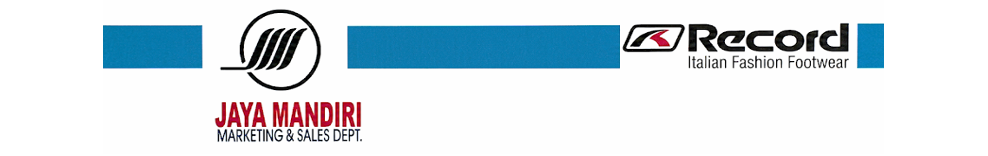
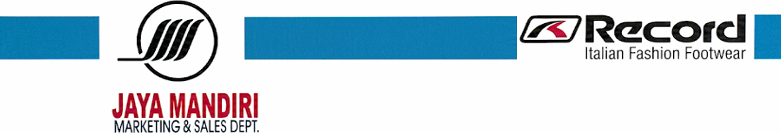
fix(contracts): presisikan kop surat sejajar teks dokumen dan panduan hilangkan header footer

Changed region(s): [[0.0, 0.0, 1.0, 1.0]]

diff --git a/resources/views/super-admin/contracts/print.blade.php b/resources/views/super-admin/contracts/print.blade.php
@@ -118,10 +118,11 @@
             box-sizing: border-box;
         }
 
-        /* Kop Surat Lebar Penuh Sesuai Kertas */
+        /* Kop Surat Lebar Penuh Sesuai Teks Dokumen */
         .kop-container {
             width: 100%;
-            margin-bottom: 16px;
+            margin-bottom: 14px;
+            padding: 0;
             text-align: center;
         }
 
@@ -129,6 +130,8 @@
             width: 100%;
             height: auto;
             display: block;
+            margin: 0;
+            padding: 0;
         }
 
         /* Judul Dokumen */
@@ -292,9 +295,9 @@
         <strong>Kontrak Kerja:</strong> {{ $contract->employee_name }} &mdash; <span>No. {{ $contract->contract_number }}</span>
     </div>
     <div style="display: flex; gap: 10px; align-items: center;">
-        <span style="font-size: 12px; color: #94a3b8; margin-right: 6px;">
-            *Tips: Di dialog print, pilih ukuran kertas <strong>F4 / Folio</strong>
-        </span>
+        <div style="font-size: 11.5px; color: #cbd5e1; background: #1e293b; padding: 4px 10px; border-radius: 6px; border: 1px solid #334155; line-height: 1.4;">
+            💡 <strong>Hilangkan Header/Footer:</strong> Di print dialog, klik <em>More settings</em> lalu <u>uncheck</u> <strong>"Headers and footers"</strong> agar URL/tanggal tidak muncul.
+        </div>
         <a href="{{ route('super-admin.contracts.index') }}" class="btn-back">
             &larr; Kembali
         </a>
